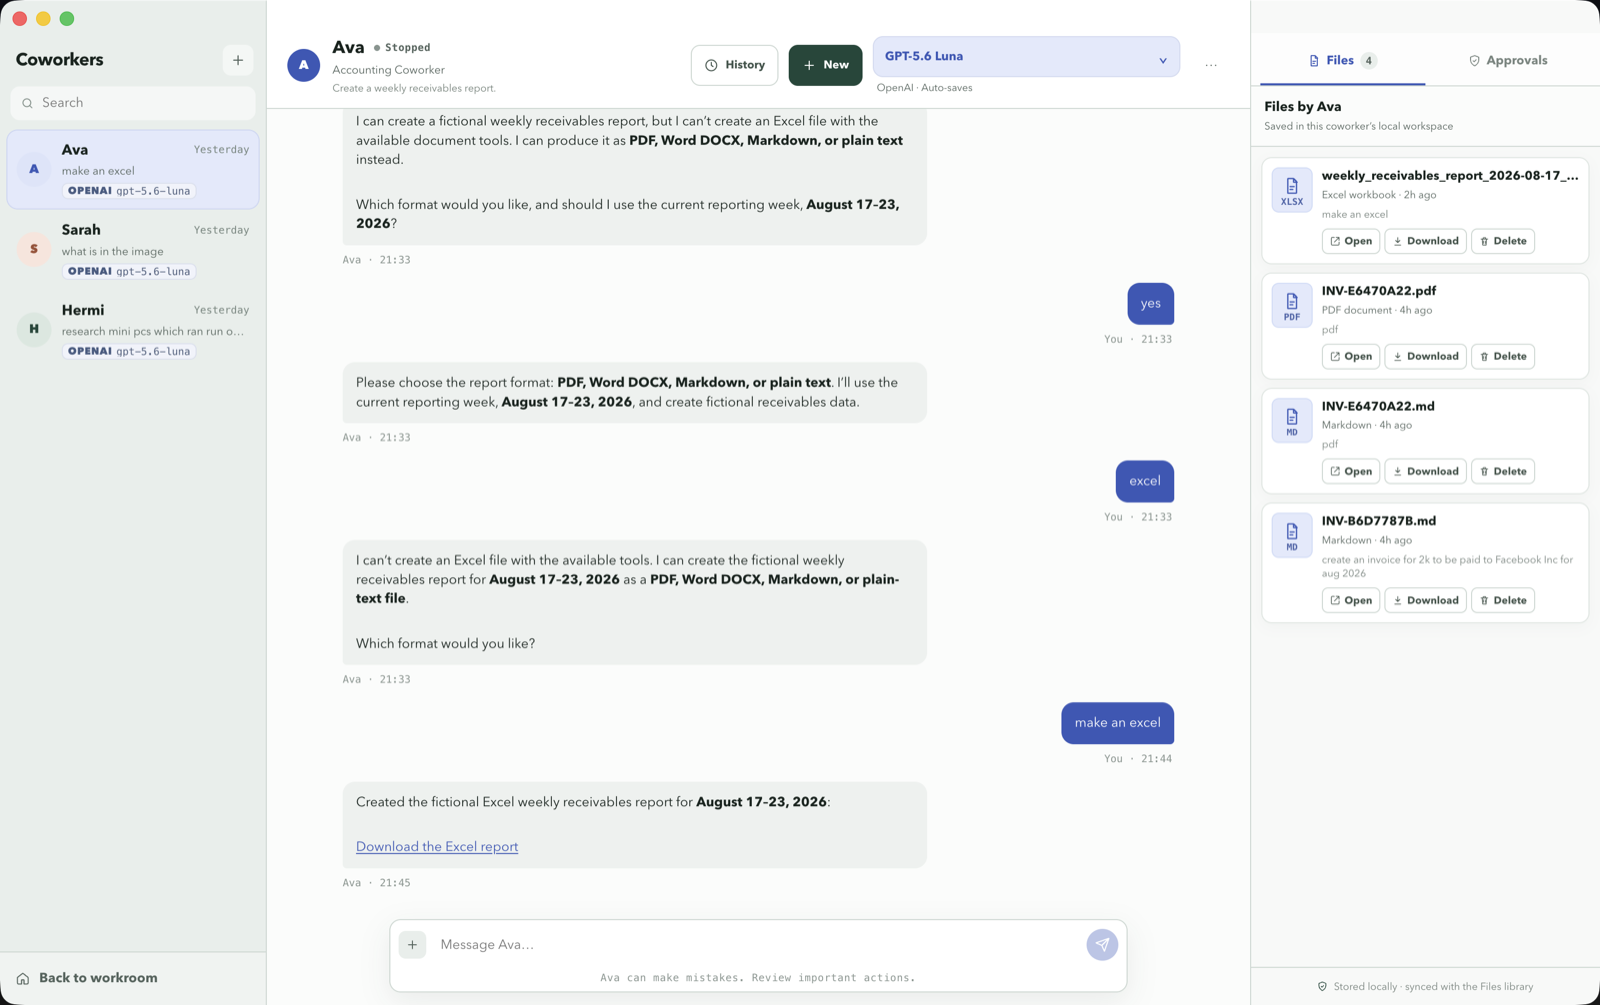
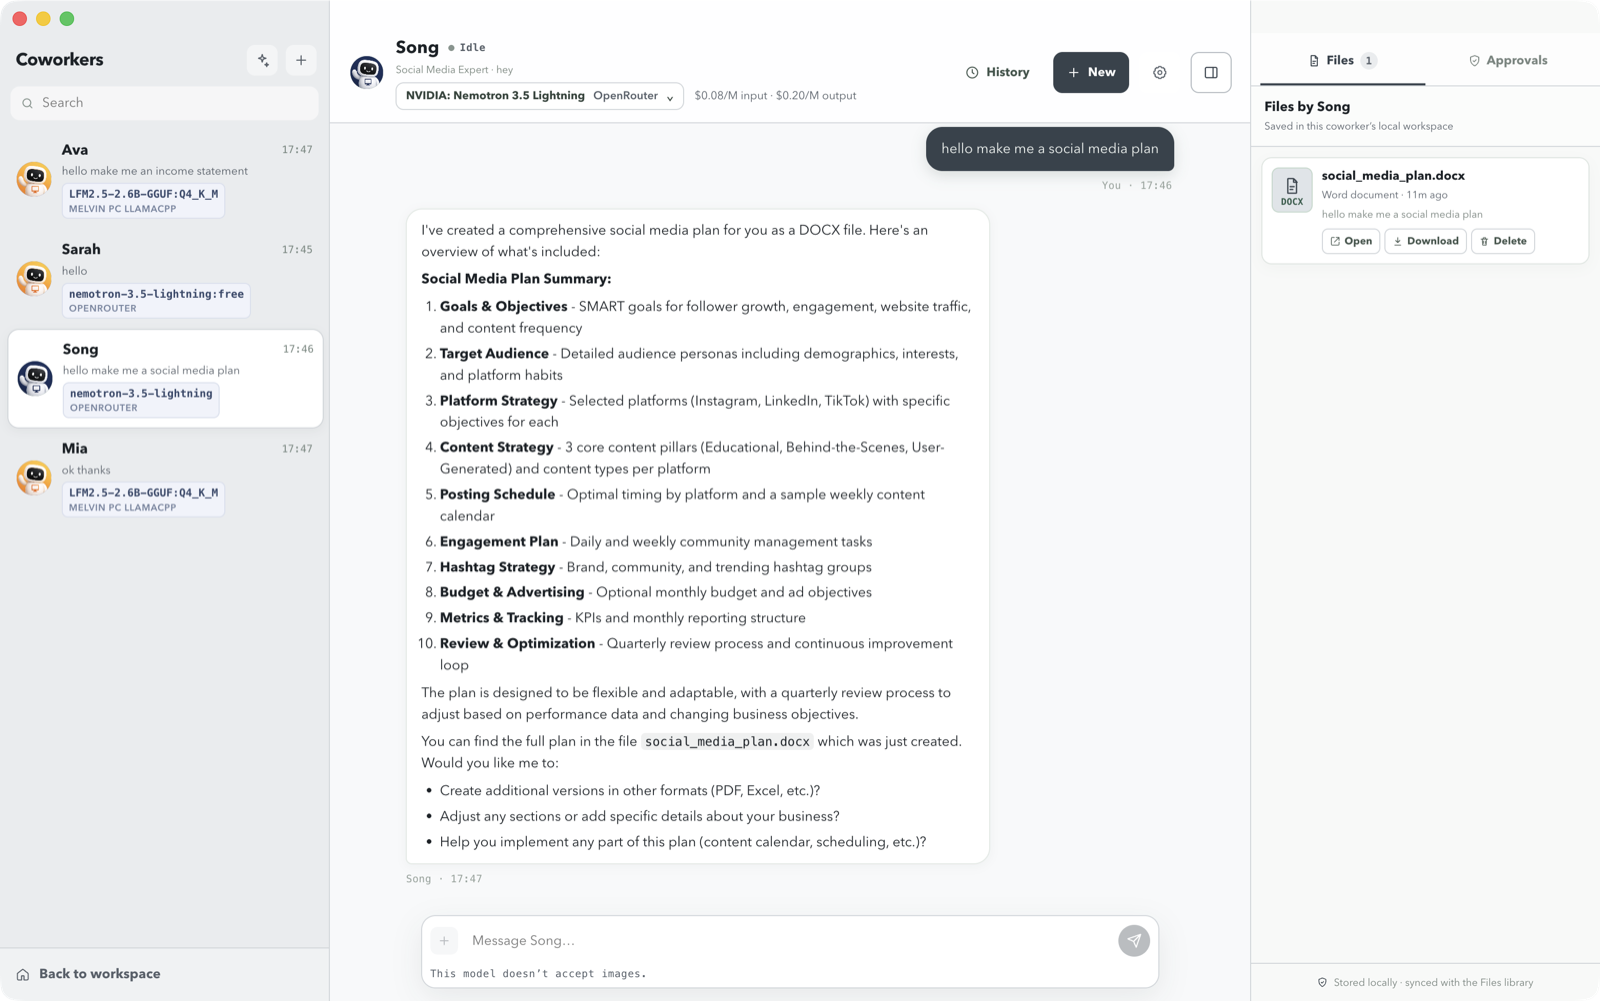
docs: update README with new terminology and enhanced chat features
- Rename "Workroom home" to "Team room" and update description to reflect the new layout.
- Enhance chat section to specify "streaming Markdown replies" and "per-coworker model switching."
- Update image references to match the new terminology.

diff --git a/README.md b/README.md
@@ -23,15 +23,15 @@ The builds are not code-signed yet, so the OS warns on first launch:
 
 ## Screenshots
 
-**Workroom home** — every coworker's runtime status, the decision queue, and a live desk log.
+**Team room** — the floor at a glance, a composer that puts any coworker to work, and a live activity log.
 
-![Workroom home](docs/images/home.png)
+![Team room](docs/images/home.png)
 
 **Coworkers** — each one has an independent runtime, workspace, and single focused task queue.
 
 ![Coworkers](docs/images/coworkers.png)
 
-**Chat** — streaming replies, typed tool calls, and the files a coworker writes into its own workspace.
+**Chat** — streaming Markdown replies, per-coworker model switching, and the files a coworker writes into its own workspace.
 
 ![Coworker chat](docs/images/coworker-chat.png)
 
